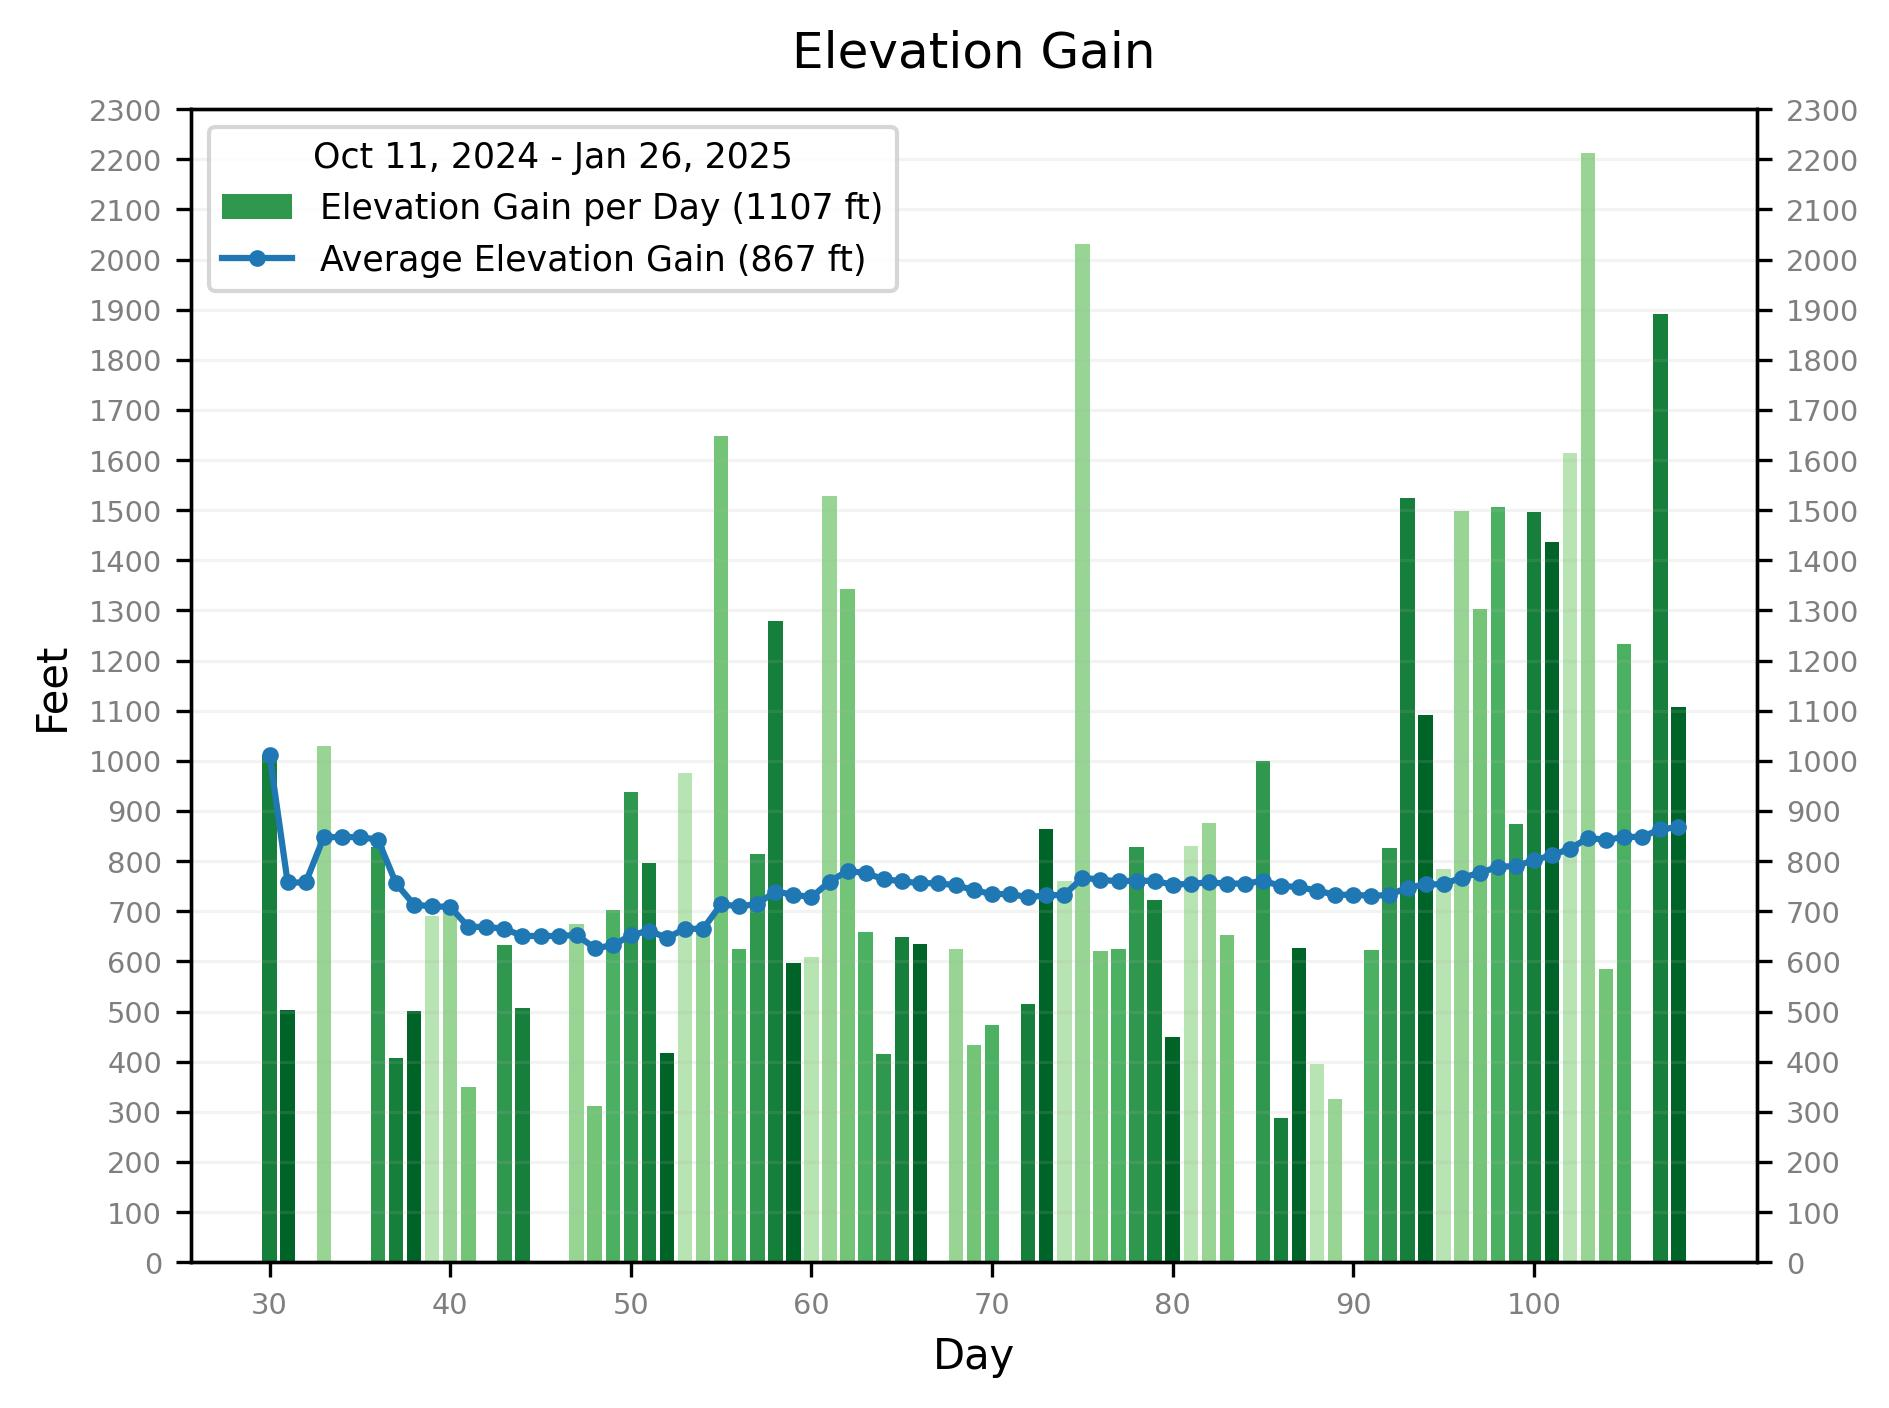
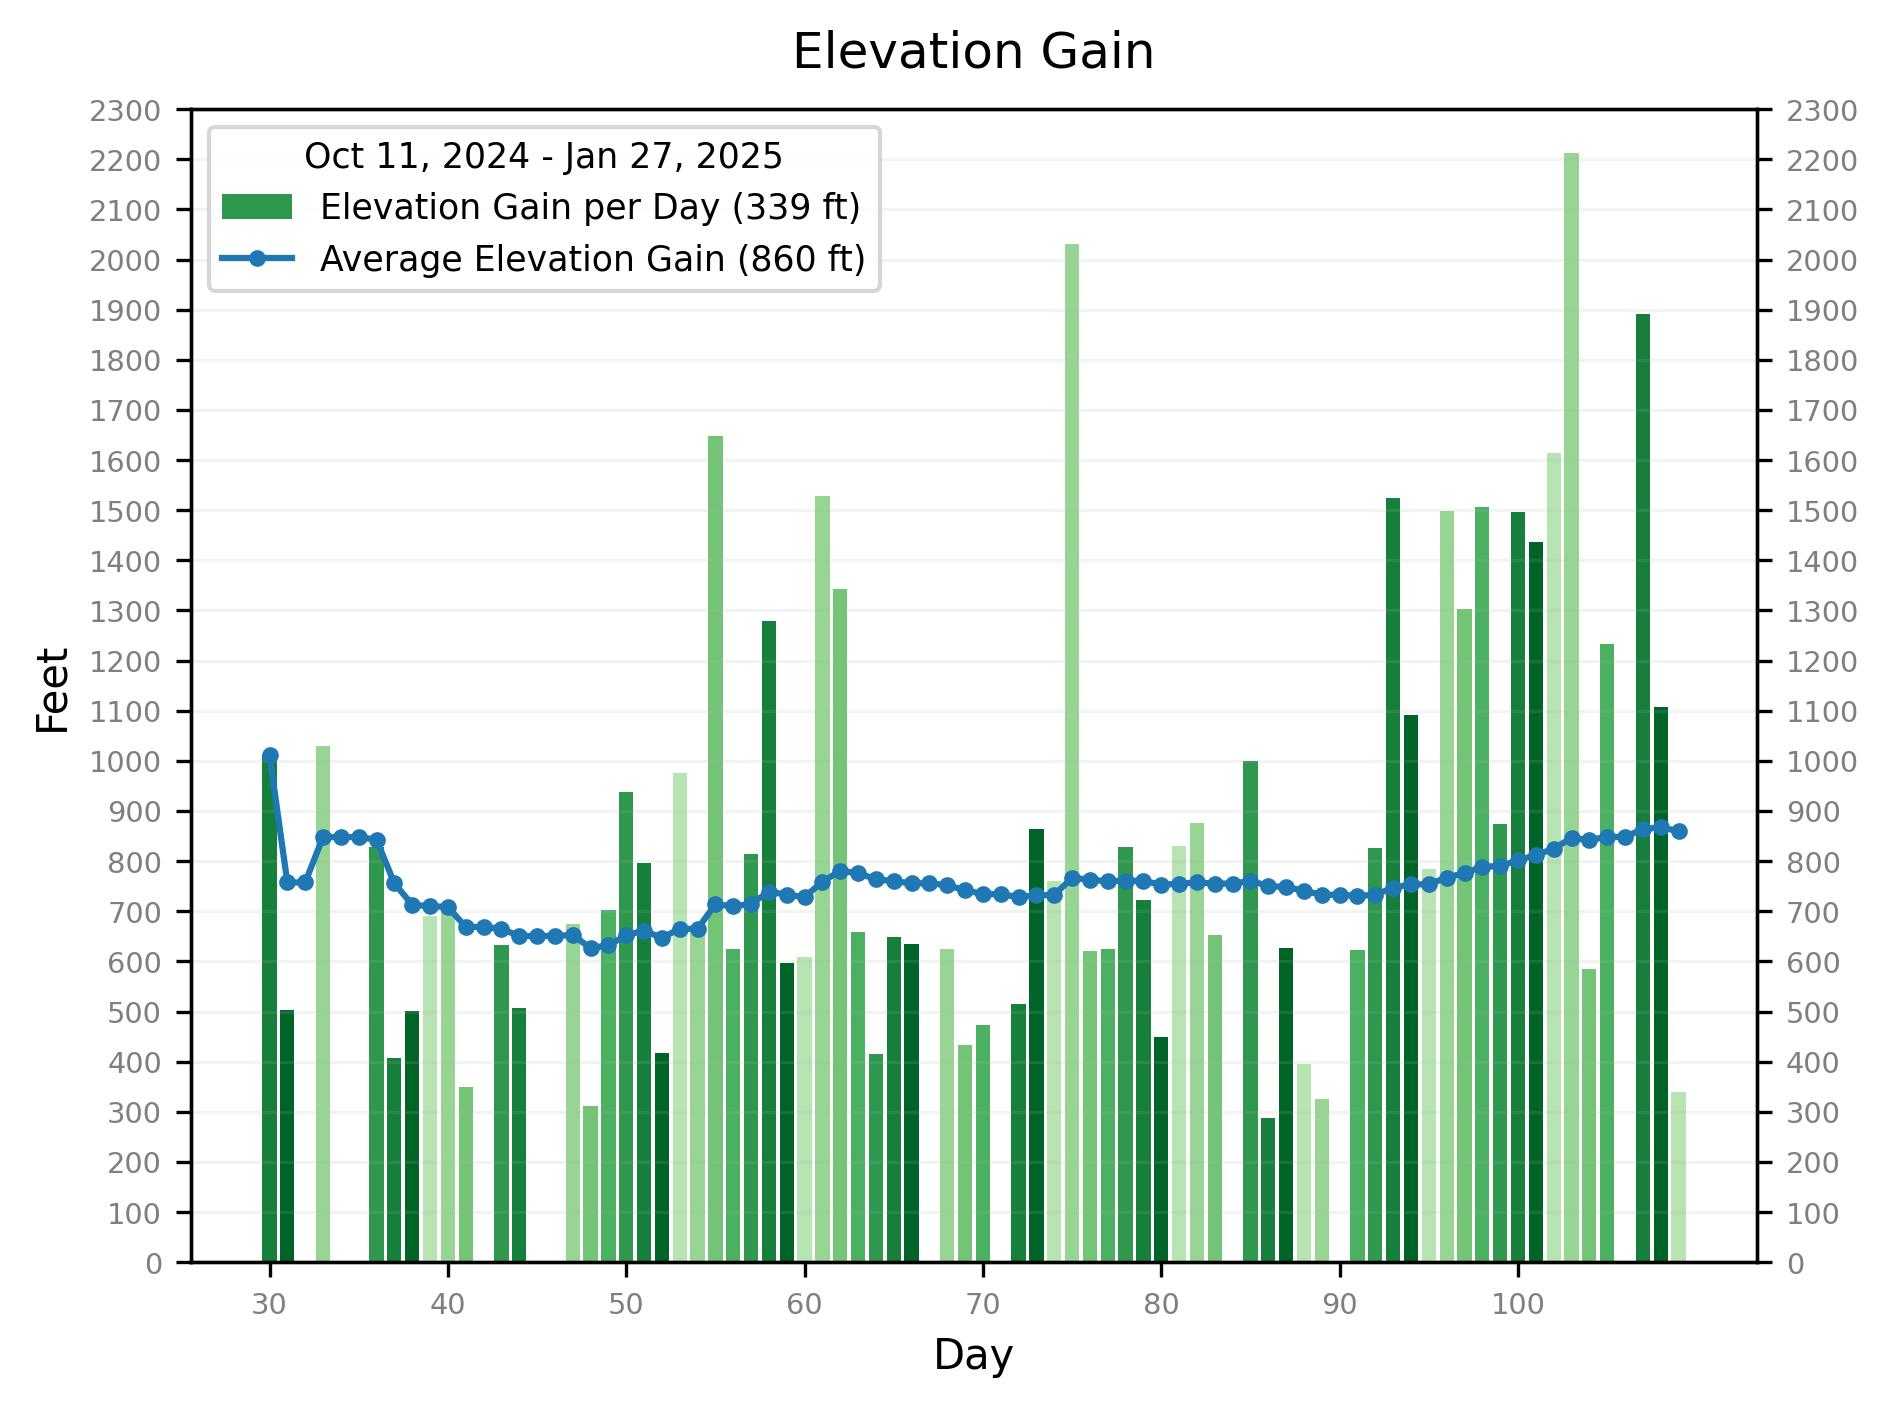
publish updates

Changed region(s): [[0.1562, 0.0938, 0.9058, 0.9375], [0.1562, 0.0938, 0.4685, 0.1875]]

diff --git a/docs/console.html b/docs/console.html
@@ -1,13 +1,13 @@
 <pre>
-Date range: 2024-10-11 to 2025-01-26
+Date range: 2024-10-11 to 2025-01-27
 
 days  total  biked  tracked  skipped  ride rate
       -----  -----  -------  -------  ---------
-        108     98     68       10     90.74%
+        109     99     69       10     90.83%
 
 distance (miles)  min   max   avg   total
                   ----  ----  ----  -------
-                   6.9  31.4  15.5   1520.9
+                   6.9  31.4  15.5   1532.3
 
 speed (mph)  min   max   avg
              ----  ----  ----
@@ -19,9 +19,9 @@ top speed (mph)  min   max   avg
 
 elevation gain (ft)  min   max   avg   total    total miles
                      ----  ----  ----  -------  -----------
-                      287  2212   867    58986         11.2
+                      287  2212   859    59325         11.2
 
 elevation range (ft)  low:  min   max   avg   high:  min   max   avg
                             ----  ----  ----         ----  ----  ----
-                             17   329   146           390  1211   588
+                             17   329   146           390  1211   586
 </pre>
